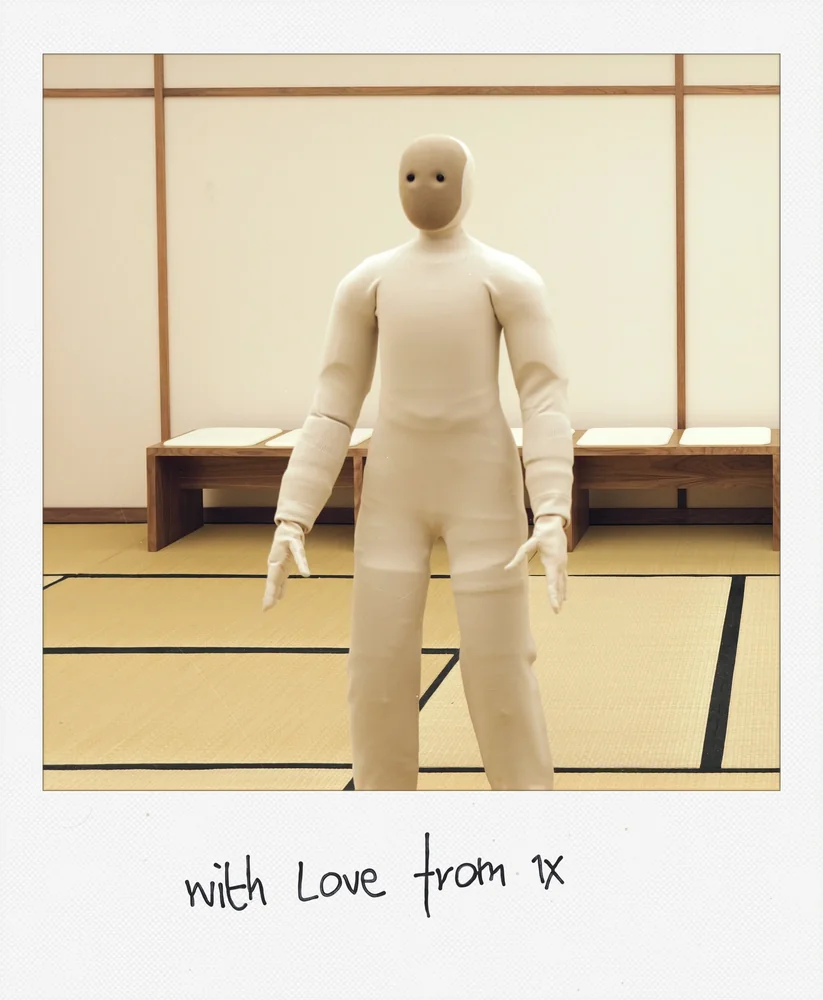
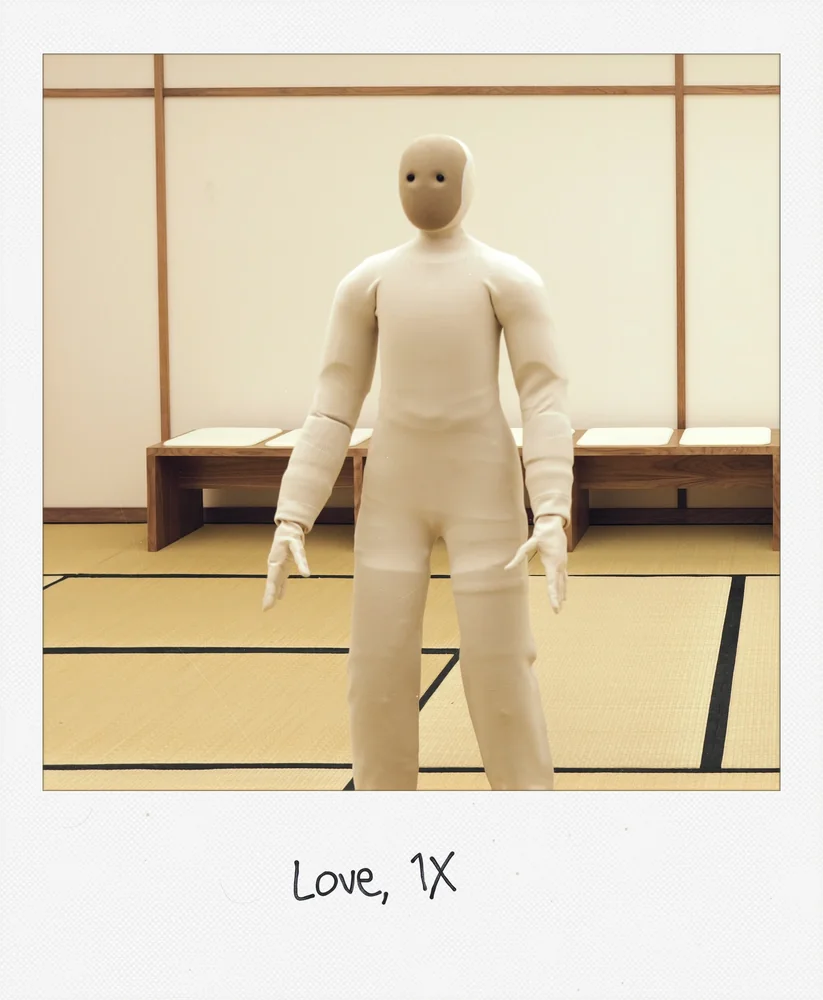
site: the figure polaroid reads "Love, 1X" (owner 2026-10-07: "change the with love from 1x, to just Love, 1X on polaroid on web")
The inscription re-lettered in the same hand (brew/polaroid/reletter.py: "Love" untouched, "1X" = the old 1 and x at cap height, a comma) and inked with the same marker, letter size and placement (brew/polaroid/ink/figure-love); figure-card.webp via the card recipe (gain r 1.063 g 1.081 b 1.099, webp q90 m6; the recipe re-verified bit-exact on the old card first), the 1000/1400/1800 variants rebuilt by mkvariants.py. The change stays in the band (the photo identical before encoding). Local only: not pushed

Claude-Session: https://claude.ai/code/session_01VATduVhnAmRPVCf4aY2fXM

Changed region(s): [[0.2126, 0.837, 0.6987, 0.93]]

diff --git a/proto/site.html b/proto/site.html
@@ -3912,7 +3912,7 @@ stacks.push(makeStack($('macbook'), { name: 'macbook', idp: 'mb-', images: MACBO
 const POLAROIDS = [
   { id: 'neo',   src: '../assets/neo/neo-card.webp',   w: 1645, h: 2000 },    // no inscription since 2026-09-28 (owner: "rm love from text from the pic with a head"; inked = neo-card-inked-old.webp)
   { id: 'trees', src: '../assets/neo/trees-card.webp', w: 1645, h: 2000 },
-  { id: 'figure', src: '../assets/neo/figure-card.webp', w: 1645, h: 2000 },   // 2025 Neo/L1001549.jpeg, look_mix .15 (owner: "dont change much of the pic"), inked like the NEO print
+  { id: 'figure', src: '../assets/neo/figure-card.webp', w: 1645, h: 2000 },   // 2025 Neo/L1001549.jpeg, look_mix .15 (owner: "dont change much of the pic"); inked "Love, 1X" since 2026-10-07 (owner: "change the with love from 1x, to just Love, 1X"; the same hand re-lettered by brew/polaroid/reletter.py, same pen / letter size / placement), before: "with Love from 1x" like the NEO print
   { id: 'dancers', src: '../assets/neo/dancers-card.webp', w: 1645, h: 2000 },  // 2025 Neo/Screenshot 2025-11-04 (the red/blue figure drawing) widened to 1:1, --look polaroid (owner: 'apply some polaroid type filter'; sx70 went mint on the white paper), no inscription
 ];
 const POL_KNOBS = { radius: 0, border: 0, vradius: 0, vborder: 0, shadow: 1, vshadow: 1 };   // square corners; the shadows carry their own alpha (1 = as measured), at home AND in the viewer (owner 2026-09-26: "add a shadow on the fullscreen version of the polaroid too")
